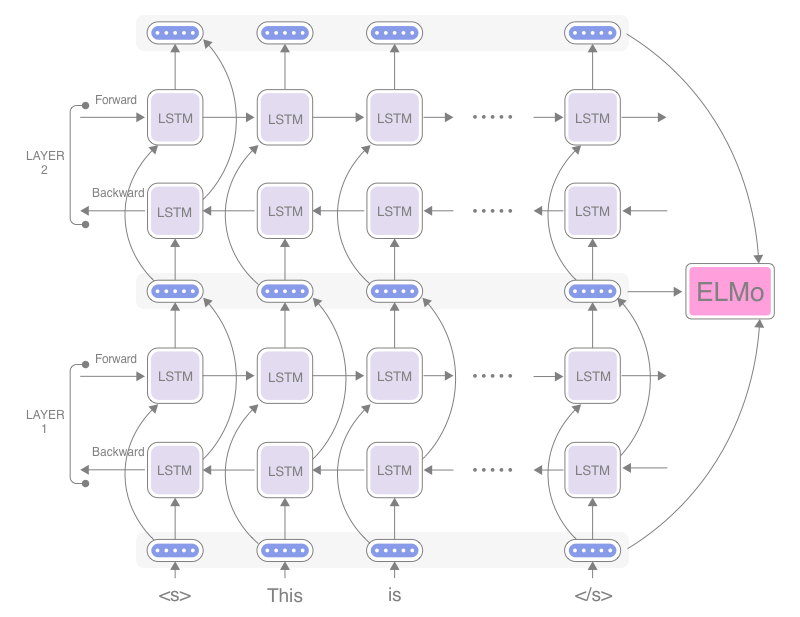
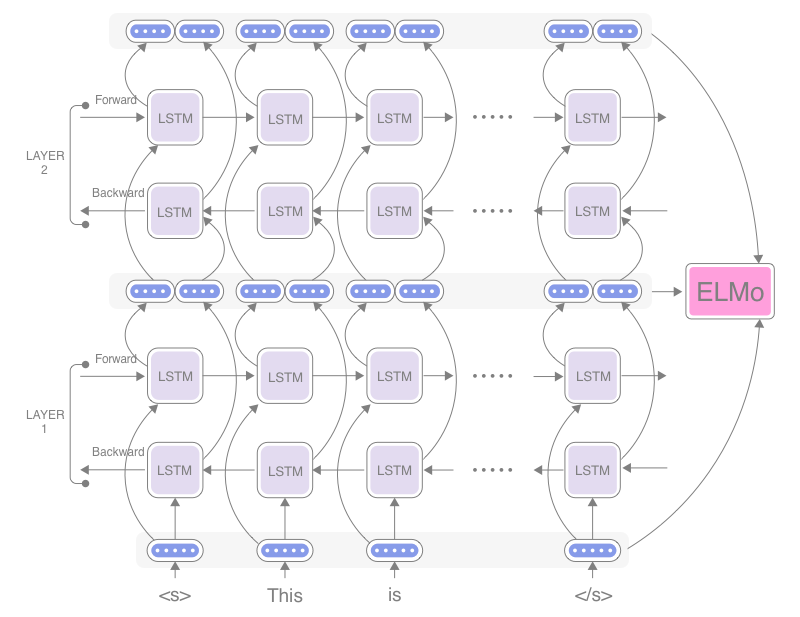
Fix ELMo article

diff --git a/blog/improving-sentiment-analyzer-using-elmo.html b/blog/improving-sentiment-analyzer-using-elmo.html
@@ -118,7 +118,7 @@
 </ul>
 <p>The first element here represents some concept of "animal-ness" and the third "food-ness". (I'm making these numbers up, but you get the point). Those vectors are learned from a large corpus of natural language text so that words that appear in similar context get assigned similar vectors. By using pre-trained word embeddings instead of one-hot vectors, your model already "knows" how the basic building blocks of the language work. For example, if you wanted to train an "animal name tagger," then all your model has to learn would be to look at just the first element of each word vector and see if the value is high enough. This is a great jump-start from trying to figure out from (1, 0, 0), (0, 1, 0), and (0, 0, 1).       </p>
 <h2>What is ELMo?</h2>
-<p>You may have noticed that word embeddings mentioned above also have another serious issue. A word is assigned the same vector representation no matter where it appears and how it's used, because word embeddings rely on just a look-up table. In other word, they ignore polysemy — a concept that words can have multiple meanings. For example, the word "bank" gets assigned a word vector that is always the same regardless of the context (whether it’s a financial institution of a land alongside a river). What if there is a "hot" right before "dog" in a sentence? Suddenly, this "dog" sounds a lot more like "pizza" than "cat"!</p>
+<p>You may have noticed that word embeddings mentioned above also have another serious issue. A word is assigned the same vector representation no matter where it appears and how it's used, because word embeddings rely on just a look-up table. In other word, they ignore polysemy — a concept that words can have multiple meanings. For example, the word "bank" gets assigned a word vector that is always the same regardless of the context (whether it's a financial institution of a land alongside a river). What if there is a "hot" right before "dog" in a sentence? Suddenly, this "dog" sounds a lot more like "pizza" than "cat"!</p>
 <p>I need to mention that it's not that nothing has been done to address this issue. The original word2vec paper [<a href="https://papers.nips.cc/paper/5021-distributed-representations-of-words-and-phrases-and-their-compositionality.pdf">Mikolov, et al. 2013</a>] deals with idiomatic phrases such as "New York" and "Boston Globe" by first detecting those phrases using a data-driven approach and then by treating them as single tokens. There is also a body of work that focuses on learning a vector representation per word sense, not just per word (e.g., [<a href="https://arxiv.org/abs/1504.06654">Neelakantan et al., 2015</a>]). In either case, word embeddings are still based on static mapping tables and you'd need a separate phase to disambiguate word senses.</p>
 <p>Human language is something more dynamic. What a word means can depend on what comes before <em>and</em> after it (and possibly beyond sentence boundaries). This is why you get confused when you see sentences like "<a href="https://en.wikipedia.org/wiki/Garden-path_sentence">The horse raced past the barn fell.</a>" It'd be natural to think of a "word embedding on steroids" which reads the whole sentence once and produces word vectors that take into account the entire sentence as context. This is exactly what ELMo does!</p>
 <p>ELMo is a word representation technique proposed by AllenNLP [<a href="https://arxiv.org/abs/1802.05365">Peters et al. 2018</a>] relatively recently. Unlike traditional word embedding methods, ELMo is dynamic, meaning that ELMo embeddings change depending on the context even when the word is the same. How can this be possible? In the following sections, I'm going to show how it works.  </p>
@@ -126,12 +126,12 @@
 <p>Instead of relying on mapping tables, ELMo uses a pre-trained language model. That's how the name ELMo got "LM" in it (it stands for Embeddings from Language Models). In general, a language model is a statistical model that gives probabilities to sequences of words, such as phrases and sentences. In deep NLP, recurrent neural networks (RNNs) are often used to train language models. As the RNN reads a sentence word by word, its internal states get updated so that they reflect the "content" of the sentence seen so far.</p>
 <figure style="text-align: center">
     <img src="images/elmo.png"/>
-    <figcaption>Figure: ELMo uses internal representations of multi-layer biLSTM</figcaption>
+    <figcaption>Figure: ELMo uses internal representations of multi-layer biLM</figcaption>
 </figure>
 
-<p>ELMo uses one particular type of language model called biLSTM, which is, a bidirectional RNN with LSTM cells. As you can see in the figure above, for each layer, there are two "passes" — forward and backward — that scan the sentence in both directions. The internal states from the forward pass at a certain word reflect the word itself <em>and</em> everything that happened before that word, whereas the ones from the backward pass are computed from the word itself <em>and</em> everything after that word. The internal states of both passes get concatenated and produce an intermediate word vector. Therefore, this intermediate word vector at that word is still the representation of what the word means, but it "knows" what is happening in the rest of the sentence and how the word is used. </p>
-<p>Another feature of ELMo is that it uses an LM comprised of multiple layers. Those backward and forward passes are stacked together and form a multilayer RNN, as you can see in the figure. The intermediate word vector produced by the layer below is fed into the next layer above. This is repeated as many times as there are layers. This way, you can expect that internal states get processed further as they go up in the layer ladder, and upper layers can represent more abstract semantics (for example, topics and sentiment) compared to what lower layers can capture (for example, part of speech and short phrases). The final representation used by downstream NLP tasks is the weighed combination of those different intermediate word vectors. Specifically, it is the weighted combination of L+1 word vectors, where L is the number of layers. Why +1? Because the input to biLSTM (raw word embeddings which you can see at the bottom of the figure) get also combined. The weights are learned in a task-dependent way. </p>
-<p>Finally, ELMo uses a character CNN (convolutional neural network) for computing those raw word embeddings that get fed into the first layer of the biLSTM. The input to the biLSTM is computed purely from characters (and combinations of characters) within a word, without relying on some form of lookup tables. Why is this a good thing? First, it can capture the internal structure of words. The model can guess, for example, "dog" and "doggy" are somewhat related, even before seeing how they are used in context at all. Second, it is robust to unknown words that weren't encountered during the training.</p>
+<p>ELMo uses one particular type of language model called biLM, which is a combination of two LMs in both directions. As you can see in the figure above, there are two "passes" — forward and backward — that scan the sentence in both directions. The internal states from the forward pass at a certain word reflect the word itself <em>and</em> everything that happened before that word, whereas the ones from the backward pass are computed from the word itself <em>and</em> everything after that word. The internal states of both passes get concatenated and produce an intermediate word vector. Therefore, this intermediate word vector at that word is still the representation of what the word means, but it "knows" what is happening in the rest of the sentence and how the word is used. </p>
+<p>Another feature of ELMo is that it uses an LM comprised of multiple layers. Those backward and forward passes are stacked together and form a multilayer RNN, as you can see in the figure. The intermediate word vector produced by the layer below is fed into the next layer above. This is repeated as many times as there are layers. This way, you can expect that internal states get processed further as they go up in the layer ladder, and upper layers can represent more abstract semantics (for example, topics and sentiment) compared to what lower layers can capture (for example, part of speech and short phrases). The final representation used by downstream NLP tasks is the weighed combination of those different intermediate word vectors. Specifically, it is the weighted combination of L+1 word vectors, where L is the number of layers. Why +1? Because the input to biLM (raw word embeddings which you can see at the bottom of the figure) get also combined. The weights are learned in a task-dependent way. </p>
+<p>Finally, ELMo uses a character CNN (convolutional neural network) for computing those raw word embeddings that get fed into the first layer of the biLM. The input to the biLM is computed purely from characters (and combinations of characters) within a word, without relying on some form of lookup tables. Why is this a good thing? First, it can capture the internal structure of words. The model can guess, for example, "dog" and "doggy" are somewhat related, even before seeing how they are used in context at all. Second, it is robust to unknown words that weren't encountered during the training.</p>
 <h2>How to use ELMo</h2>
 <p><a href="https://allennlp.org/">AllenNLP</a>, an open-source NLP platform developed by the Allen Institute of Artificial Intelligence, provides pre-trained ELMo models and interfaces that make it very easy for you to integrate ELMo with your model. In what follows, I'm going to demonstrate how to integrate ELMo embeddings with the sentiment analysis model I trained in the <a href="training-sentiment-analyzer-using-allennlp.html">previous post</a>.</p>
 <p>In order to integrate ELMo, you need to make only three changes to the script. Firstly, because ELMo uses a character-based CNN to encode words as mentioned above, you need to change how words are indexed when the Stanford Sentiment TreeBank is accessed. AllenNLP provides a convenient <code>ELMoTokenCharactersIndexer</code> for this, which basically encodes a word by an array of its character IDs: </p>
@@ -157,7 +157,7 @@
 </pre></div>
 
 
-<p>Finally, you need to adjust the input vector size of your LSTM-RNN. By the way, this is not the biLSTM used by ELMo, but rather the LSTM you built to classify the sentence. Because we are using the ELMo embeddings as the input to this LSTM, you need to adjust the <code>input_size</code> parameter to <code>torch.nn.LSTM</code>: </p>
+<p>Finally, you need to adjust the input vector size of your LSTM-RNN. By the way, this is not the biLM used by ELMo, but rather the LSTM you built to classify the sentence. Because we are using the ELMo embeddings as the input to this LSTM, you need to adjust the <code>input_size</code> parameter to <code>torch.nn.LSTM</code>: </p>
 <div class="highlight"><pre><span></span><span class="c1"># The dimension of the ELMo embedding will be 2 x [size of LSTM hidden states]</span>
 <span class="n">elmo_embedding_dim</span> <span class="o">=</span> <span class="mi">256</span>
 <span class="n">lstm</span> <span class="o">=</span> <span class="n">PytorchSeq2VecWrapper</span><span class="p">(</span>
@@ -166,7 +166,7 @@
 
 
 <p>The new <code>input_size</code> will be 256 because the output vector size of the ELMo model we are using is 128, and there are two directions (forward and backward). </p>
-<p>And that's it! Here's <a href="https://github.com/mhagiwara/realworldnlp/blob/master/examples/sentiment/sst_classifier_elmo.py">the entire script</a> for training and testing an ELMo-augmented sentiment classifier on the Stanford Sentiment TreeBank dataset. If you run this script, you should get an accuracy of ~0.60 on the training set and ~0.40 on the dev set. If this doesn't sound like a huge improvement from the non-ELMo model we built last time, you are right — we only used the small model this time, and more importantly, we are <em>not</em> using the linear combinations of all ELMo biLSTM layers, but rather just the topmost layer. If you read <a href="https://arxiv.org/pdf/1802.05365.pdf">the original ELMo paper</a>, you realize how important it is to use multiple layers. Each biLSTM layer represents different types of information and you need to optimize which layers to focus on depending on the task. To obtain all the layers from ELMo, you need to use <a href="https://allenai.github.io/allennlp-docs/api/allennlp.modules.elmo.html#module-allennlp.modules.elmo"><code>ELMo</code> class</a> instead. </p>
+<p>And that's it! Here's <a href="https://github.com/mhagiwara/realworldnlp/blob/master/examples/sentiment/sst_classifier_elmo.py">the entire script</a> for training and testing an ELMo-augmented sentiment classifier on the Stanford Sentiment TreeBank dataset. If you run this script, you should get an accuracy of ~0.60 on the training set and ~0.40 on the dev set. If this doesn't sound like a huge improvement from the non-ELMo model we built last time, you are right — we only used the small model this time, and more importantly, we are <em>not</em> using the linear combinations of all ELMo biLM layers, but rather just the topmost layer. If you read <a href="https://arxiv.org/pdf/1802.05365.pdf">the original ELMo paper</a>, you realize how important it is to use multiple layers. Each biLM layer represents different types of information and you need to optimize which layers to focus on depending on the task. To obtain all the layers from ELMo, you need to use <a href="https://allenai.github.io/allennlp-docs/api/allennlp.modules.elmo.html#module-allennlp.modules.elmo"><code>ELMo</code> class</a> instead. </p>
 <h2>Configuring the Training Pipeline in JSON</h2>
 <p>Now, let's switch gears and study how we can do all this without writing a single line of Python code. One of the great features of AllenNLP is that it allows users to write JSON-based configuration files that completely specify how to train a model. Why is this great or even necessary? Didn't we just write an end-to-end specification of an experiment in Python?</p>
 <p>The first reason is that it encourages the separation between implementation and experiment metadata. If you have any experience training NLP models (or any ML models in general), you may have encountered a situations like this:</p>

diff --git a/pelican/content/20181027-improving-sentiment-analyzer-using-elmo.md b/pelican/content/20181027-improving-sentiment-analyzer-using-elmo.md
@@ -35,7 +35,7 @@ The first element here represents some concept of "animal-ness" and the third "f
 
 ## What is ELMo?
 
-You may have noticed that word embeddings mentioned above also have another serious issue. A word is assigned the same vector representation no matter where it appears and how it's used, because word embeddings rely on just a look-up table. In other word, they ignore polysemy — a concept that words can have multiple meanings. For example, the word "bank" gets assigned a word vector that is always the same regardless of the context (whether it’s a financial institution of a land alongside a river). What if there is a "hot" right before "dog" in a sentence? Suddenly, this "dog" sounds a lot more like "pizza" than "cat"!
+You may have noticed that word embeddings mentioned above also have another serious issue. A word is assigned the same vector representation no matter where it appears and how it's used, because word embeddings rely on just a look-up table. In other word, they ignore polysemy — a concept that words can have multiple meanings. For example, the word "bank" gets assigned a word vector that is always the same regardless of the context (whether it's a financial institution of a land alongside a river). What if there is a "hot" right before "dog" in a sentence? Suddenly, this "dog" sounds a lot more like "pizza" than "cat"!
 
 I need to mention that it's not that nothing has been done to address this issue. The original word2vec paper \[[Mikolov, et al. 2013](https://papers.nips.cc/paper/5021-distributed-representations-of-words-and-phrases-and-their-compositionality.pdf)\] deals with idiomatic phrases such as "New York" and "Boston Globe" by first detecting those phrases using a data-driven approach and then by treating them as single tokens. There is also a body of work that focuses on learning a vector representation per word sense, not just per word (e.g., \[[Neelakantan et al., 2015](https://arxiv.org/abs/1504.06654)\]). In either case, word embeddings are still based on static mapping tables and you'd need a separate phase to disambiguate word senses.
 
@@ -49,14 +49,14 @@ Instead of relying on mapping tables, ELMo uses a pre-trained language model. Th
 
 <figure style="text-align: center">
 	<img src="images/elmo.png"/>
-	<figcaption>Figure: ELMo uses internal representations of multi-layer biLSTM</figcaption>
+	<figcaption>Figure: ELMo uses internal representations of multi-layer biLM</figcaption>
 </figure>
 
-ELMo uses one particular type of language model called biLSTM, which is, a bidirectional RNN with LSTM cells. As you can see in the figure above, for each layer, there are two "passes" — forward and backward — that scan the sentence in both directions. The internal states from the forward pass at a certain word reflect the word itself *and* everything that happened before that word, whereas the ones from the backward pass are computed from the word itself *and* everything after that word. The internal states of both passes get concatenated and produce an intermediate word vector. Therefore, this intermediate word vector at that word is still the representation of what the word means, but it "knows" what is happening in the rest of the sentence and how the word is used. 
+ELMo uses one particular type of language model called biLM, which is a combination of two LMs in both directions. As you can see in the figure above, there are two "passes" — forward and backward — that scan the sentence in both directions. The internal states from the forward pass at a certain word reflect the word itself *and* everything that happened before that word, whereas the ones from the backward pass are computed from the word itself *and* everything after that word. The internal states of both passes get concatenated and produce an intermediate word vector. Therefore, this intermediate word vector at that word is still the representation of what the word means, but it "knows" what is happening in the rest of the sentence and how the word is used. 
 
-Another feature of ELMo is that it uses an LM comprised of multiple layers. Those backward and forward passes are stacked together and form a multilayer RNN, as you can see in the figure. The intermediate word vector produced by the layer below is fed into the next layer above. This is repeated as many times as there are layers. This way, you can expect that internal states get processed further as they go up in the layer ladder, and upper layers can represent more abstract semantics (for example, topics and sentiment) compared to what lower layers can capture (for example, part of speech and short phrases). The final representation used by downstream NLP tasks is the weighed combination of those different intermediate word vectors. Specifically, it is the weighted combination of L+1 word vectors, where L is the number of layers. Why +1? Because the input to biLSTM (raw word embeddings which you can see at the bottom of the figure) get also combined. The weights are learned in a task-dependent way. 
+Another feature of ELMo is that it uses an LM comprised of multiple layers. Those backward and forward passes are stacked together and form a multilayer RNN, as you can see in the figure. The intermediate word vector produced by the layer below is fed into the next layer above. This is repeated as many times as there are layers. This way, you can expect that internal states get processed further as they go up in the layer ladder, and upper layers can represent more abstract semantics (for example, topics and sentiment) compared to what lower layers can capture (for example, part of speech and short phrases). The final representation used by downstream NLP tasks is the weighed combination of those different intermediate word vectors. Specifically, it is the weighted combination of L+1 word vectors, where L is the number of layers. Why +1? Because the input to biLM (raw word embeddings which you can see at the bottom of the figure) get also combined. The weights are learned in a task-dependent way. 
 
-Finally, ELMo uses a character CNN (convolutional neural network) for computing those raw word embeddings that get fed into the first layer of the biLSTM. The input to the biLSTM is computed purely from characters (and combinations of characters) within a word, without relying on some form of lookup tables. Why is this a good thing? First, it can capture the internal structure of words. The model can guess, for example, "dog" and "doggy" are somewhat related, even before seeing how they are used in context at all. Second, it is robust to unknown words that weren't encountered during the training.
+Finally, ELMo uses a character CNN (convolutional neural network) for computing those raw word embeddings that get fed into the first layer of the biLM. The input to the biLM is computed purely from characters (and combinations of characters) within a word, without relying on some form of lookup tables. Why is this a good thing? First, it can capture the internal structure of words. The model can guess, for example, "dog" and "doggy" are somewhat related, even before seeing how they are used in context at all. Second, it is robust to unknown words that weren't encountered during the training.
 
 ## How to use ELMo
 
@@ -87,7 +87,7 @@ elmo_embedder = ElmoTokenEmbedder(options_file, weight_file)
 word_embeddings = BasicTextFieldEmbedder({"tokens": elmo_embedder})
 ```
 
-Finally, you need to adjust the input vector size of your LSTM-RNN. By the way, this is not the biLSTM used by ELMo, but rather the LSTM you built to classify the sentence. Because we are using the ELMo embeddings as the input to this LSTM, you need to adjust the `input_size` parameter to `torch.nn.LSTM`: 
+Finally, you need to adjust the input vector size of your LSTM-RNN. By the way, this is not the biLM used by ELMo, but rather the LSTM you built to classify the sentence. Because we are using the ELMo embeddings as the input to this LSTM, you need to adjust the `input_size` parameter to `torch.nn.LSTM`: 
 
 ```Python
 # The dimension of the ELMo embedding will be 2 x [size of LSTM hidden states]
@@ -98,7 +98,7 @@ lstm = PytorchSeq2VecWrapper(
 
 The new `input_size` will be 256 because the output vector size of the ELMo model we are using is 128, and there are two directions (forward and backward). 
 
-And that's it! Here's [the entire script](https://github.com/mhagiwara/realworldnlp/blob/master/examples/sentiment/sst_classifier_elmo.py) for training and testing an ELMo-augmented sentiment classifier on the Stanford Sentiment TreeBank dataset. If you run this script, you should get an accuracy of ~0.60 on the training set and ~0.40 on the dev set. If this doesn't sound like a huge improvement from the non-ELMo model we built last time, you are right — we only used the small model this time, and more importantly, we are *not* using the linear combinations of all ELMo biLSTM layers, but rather just the topmost layer. If you read [the original ELMo paper](https://arxiv.org/pdf/1802.05365.pdf), you realize how important it is to use multiple layers. Each biLSTM layer represents different types of information and you need to optimize which layers to focus on depending on the task. To obtain all the layers from ELMo, you need to use [`ELMo` class](https://allenai.github.io/allennlp-docs/api/allennlp.modules.elmo.html#module-allennlp.modules.elmo) instead. 
+And that's it! Here's [the entire script](https://github.com/mhagiwara/realworldnlp/blob/master/examples/sentiment/sst_classifier_elmo.py) for training and testing an ELMo-augmented sentiment classifier on the Stanford Sentiment TreeBank dataset. If you run this script, you should get an accuracy of ~0.60 on the training set and ~0.40 on the dev set. If this doesn't sound like a huge improvement from the non-ELMo model we built last time, you are right — we only used the small model this time, and more importantly, we are *not* using the linear combinations of all ELMo biLM layers, but rather just the topmost layer. If you read [the original ELMo paper](https://arxiv.org/pdf/1802.05365.pdf), you realize how important it is to use multiple layers. Each biLM layer represents different types of information and you need to optimize which layers to focus on depending on the task. To obtain all the layers from ELMo, you need to use [`ELMo` class](https://allenai.github.io/allennlp-docs/api/allennlp.modules.elmo.html#module-allennlp.modules.elmo) instead. 
 
 ## Configuring the Training Pipeline in JSON
 
